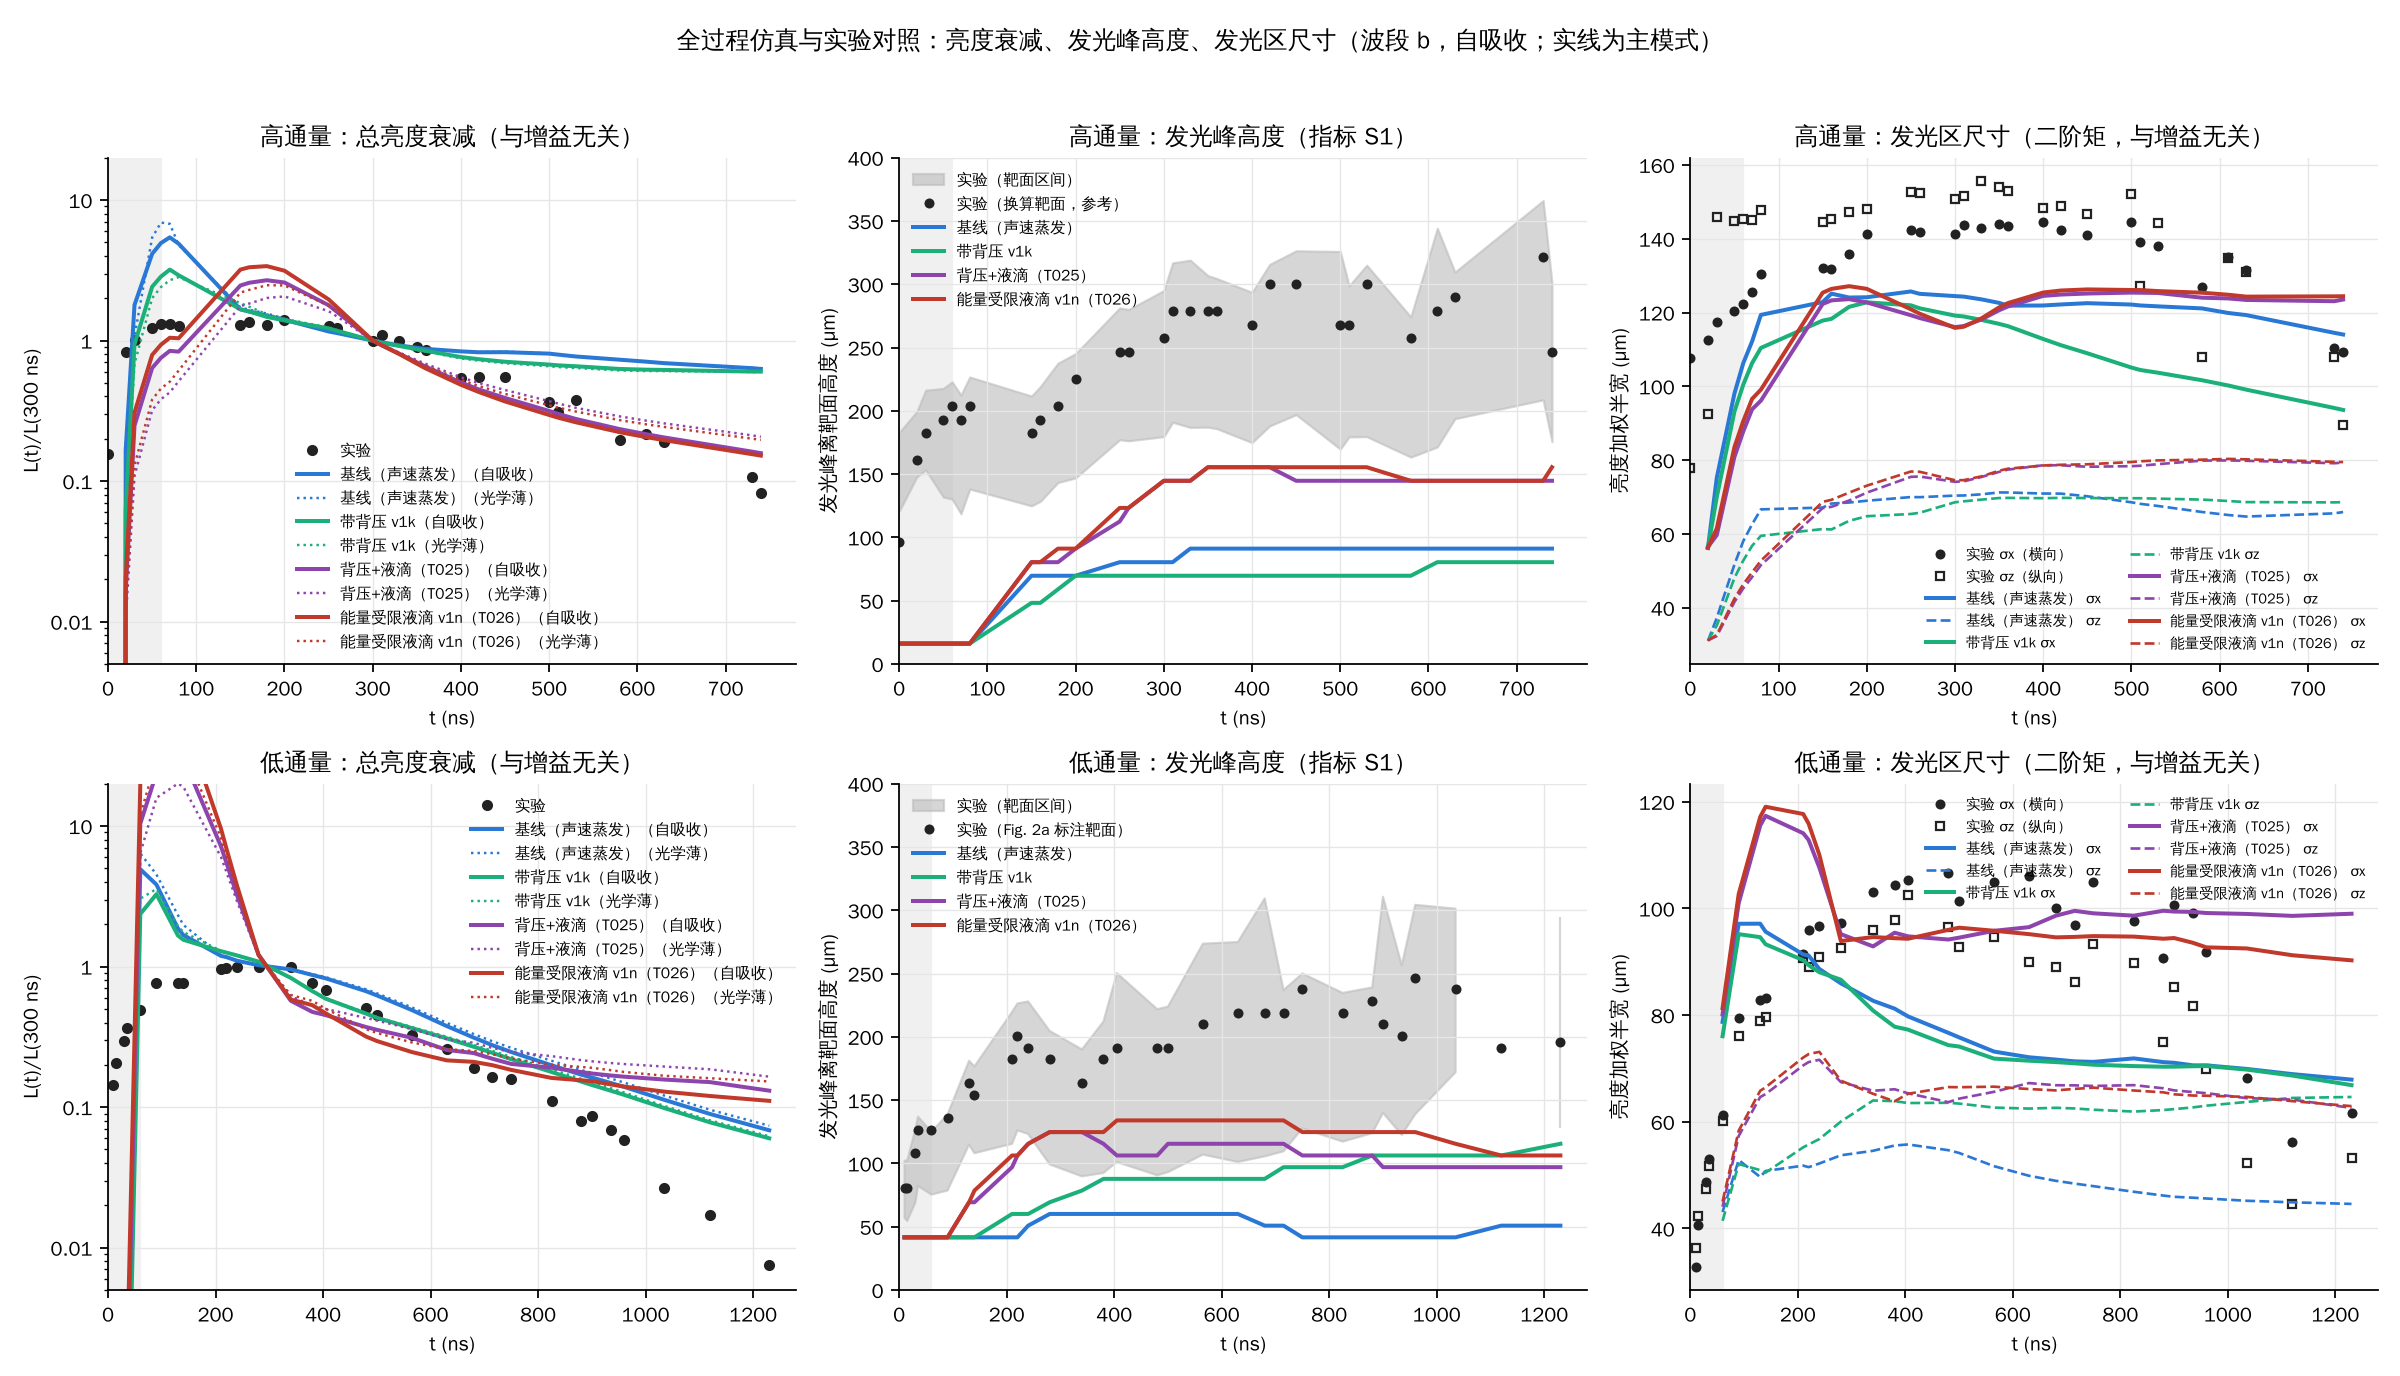
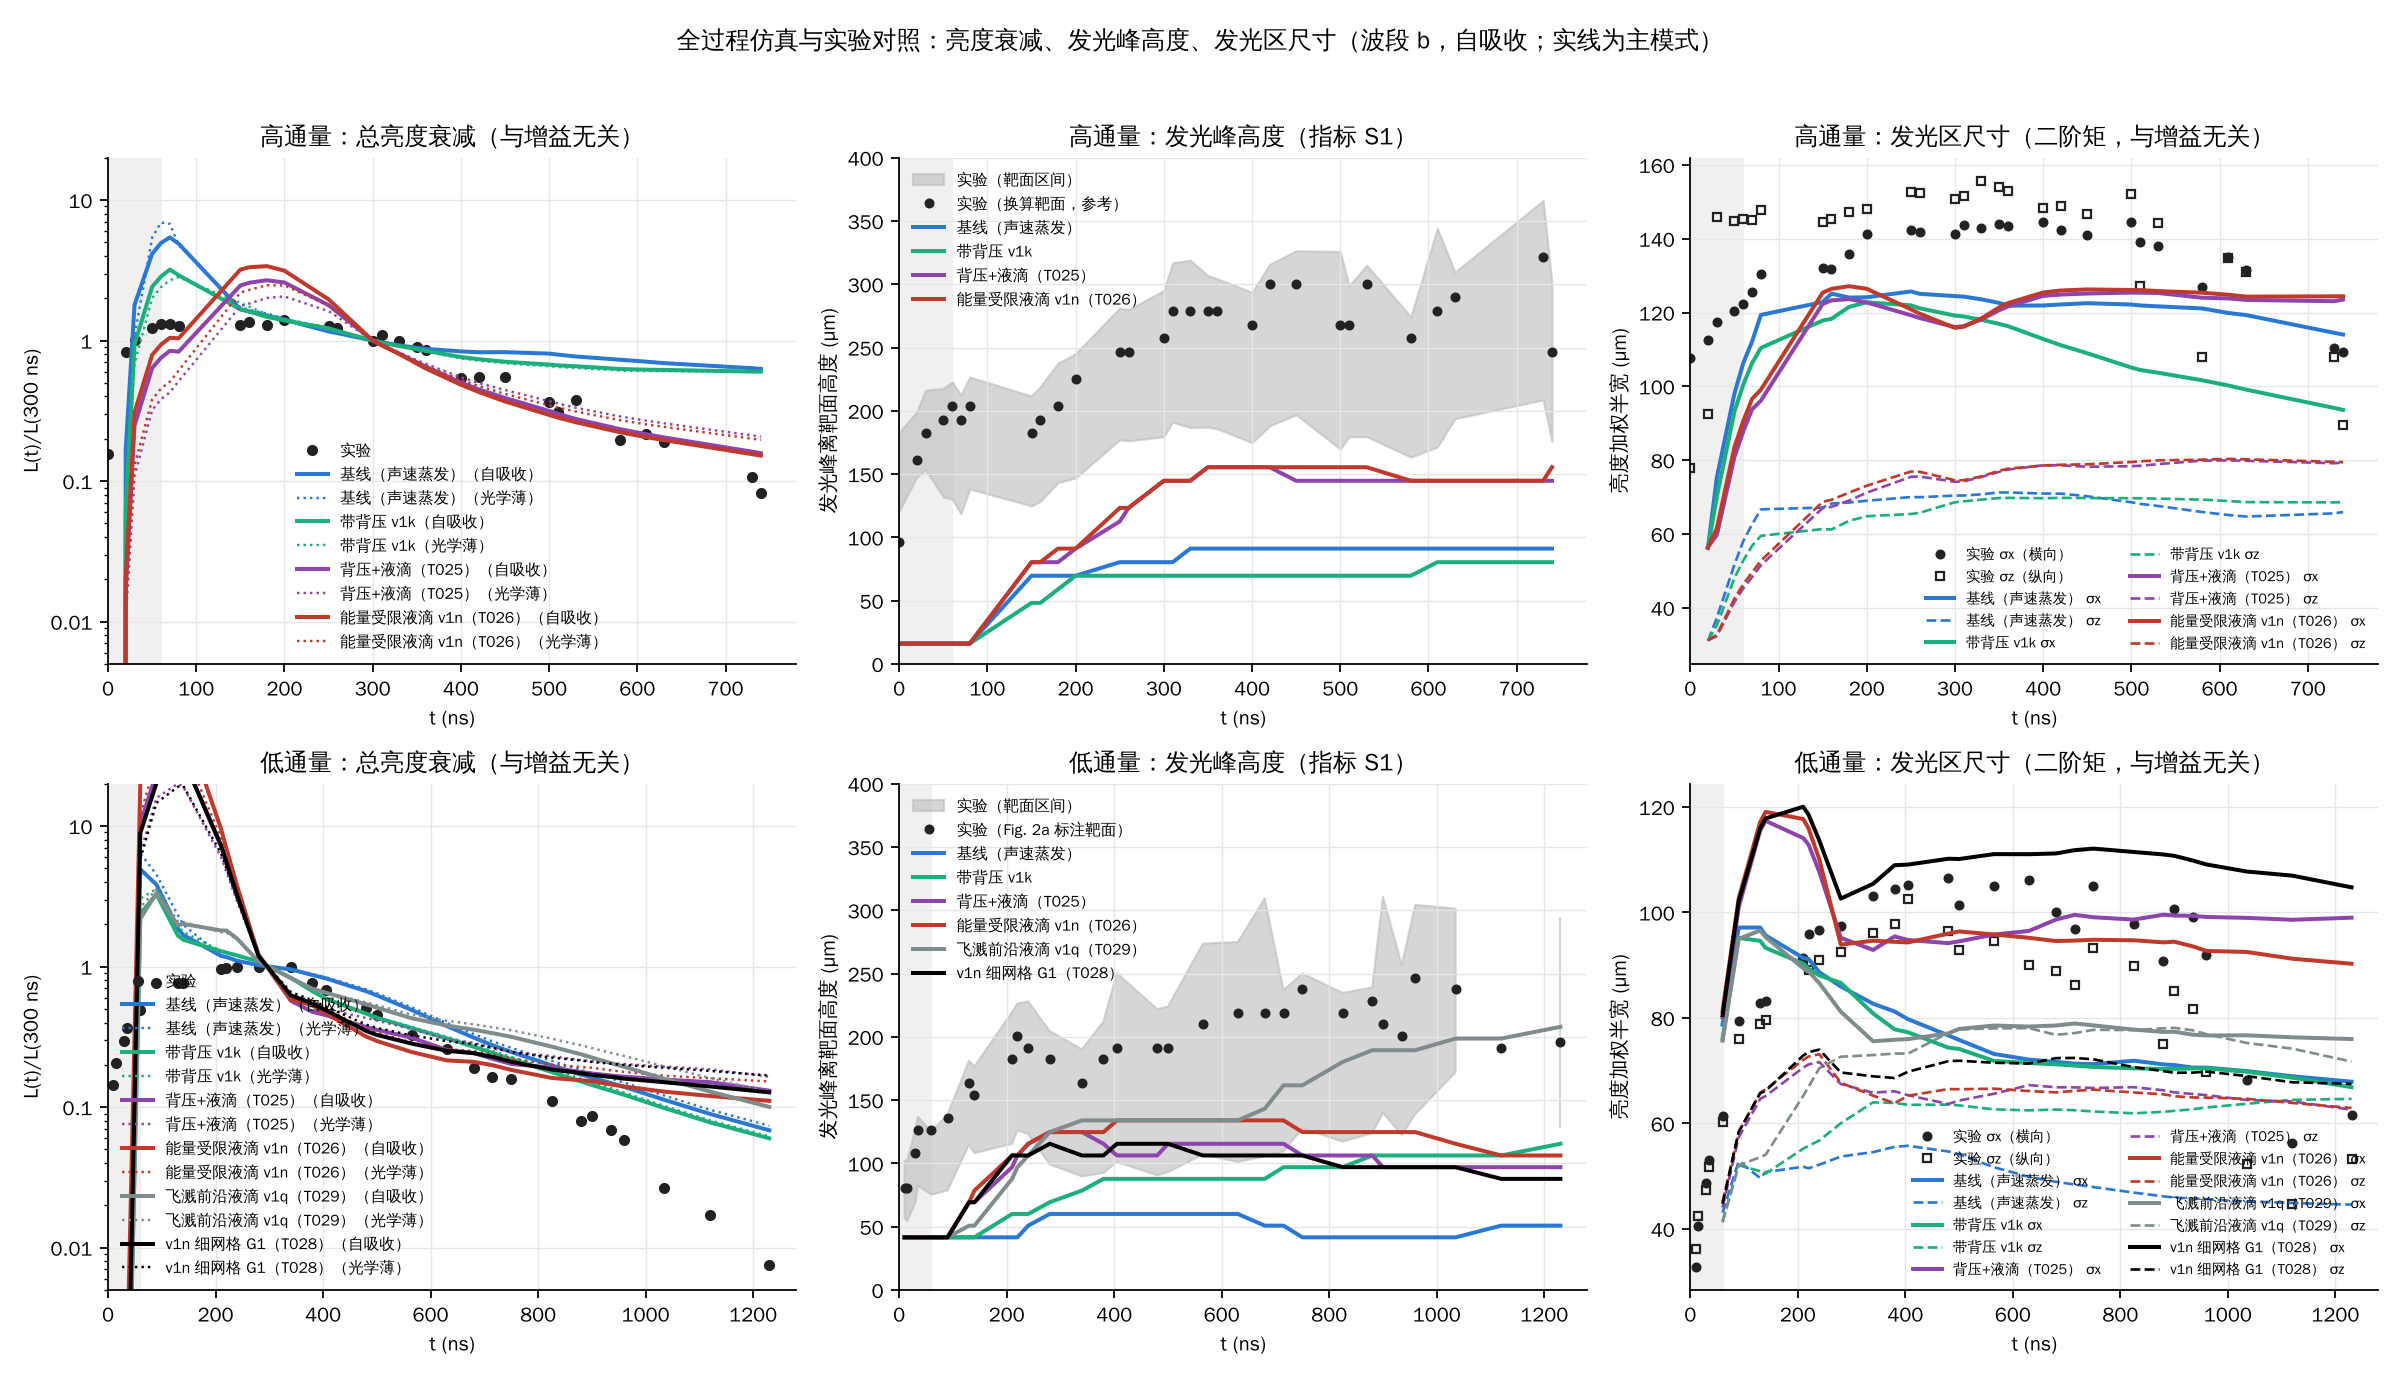
07:00 overnight summary: updated figures (T026 final, T029, T028 G1) and notes
Claude-Session: https://claude.ai/code/session_01FS7WDGPKzwdDyXZyPwrs24

diff --git a/results/figures/full_comparison_notes.md b/results/figures/full_comparison_notes.md
@@ -1,72 +1,83 @@
-# 全过程仿真与实验对照：要点（2026-11-24 21:30，北京时间）
+# 全过程仿真与实验对照：要点（2026-11-25 07:00 北京时间，夜间更新）
 
-图：`full_frames_high.png`、`full_frames_low.png`（逐帧）、`full_curves.png`（亮度衰减、发光峰高度、发光区尺寸）、`full_shock.png`（冲击波）。脚本：`scripts/plot_full_comparison.py`。
+图：`full_frames_high.png`、`full_frames_low.png`、`full_curves.png`、`full_shock.png`。
 
 **统一约定**
-- 波段 b、自吸收成像（光学薄为虚线/点线）、散焦 250 µm。
-- 各行在 300 ns 单独定增益，同一 0–255 色标。
-- 0–60 ns 不评判。
-- 每个模型都用该阶段预注册的报告成员，取已出的最新迭代，不按"像不像实验"挑选，也没有调任何参数。
-- 靶面：低通量用论文 Fig. 2a 作者标注的 Air/Copper 线；高通量是换算值，仅供参考。
+- 波段 b、自吸收、散焦 250 µm；各行在 300 ns 单独定增益，同一 0–255 色标；0–60 ns 不评判。
+- 每个模型用预注册的报告成员，取已出的最新一轮迭代，不按结果挑选，没有调参。
+- 靶面：低通量用作者在 Fig. 2a 标注的线；高通量为换算值，仅供参考。
+- 液滴成员：T021（时间均匀释放）已由能量自洽的 T026（v1n）取代。
 
 ## 数字汇总
 
-**高通量**（实验：L(500)/L(300) = 0.368，L(730)/L(300) = 0.107；300 ns 时 σz/σx = 151/141 µm，比值 1.07；冲击波 R(600 ns) ≈ 671 µm）
+### 高通量
 
-| 模型（迭代） | L500/L300 | L730/L300 | 发光峰高度中位数 / 达标帧 | σz / σx（比值） | R(600 ns) |
-|---|---|---|---|---|---|
-| 基线 T016e it2 | 0.81 | 0.64 | 91 µm / 0/20 | 70 / 124（0.57） | 649 |
-| 液滴上界 T021 it2 | **0.33** | **0.155** | **177 µm / 7/20** | 79 / 121（0.65） | 649 |
-| 背压 T023 it2 | 0.68 | 0.60 | 70 µm / 0/20 | 69 / 119（0.58） | 609 |
-| 背压+液滴 T025 it1 | **0.32** | **0.157** | 155 µm / 1/20 | 76 / 118（0.64） | 628 |
-| 能量受限液滴 T026 it0 | 0.57 | 0.32 | 123 µm / 0/20 | 71 / 128（0.55） | 691 |
+实验：L500/L300 = 0.37，L730/L300 = 0.107，σz/σx = 151/141 µm（比值 1.07）。
 
-**低通量**（实验：L(715)/L(300) = 0.163，L(1035)/L(300) = 0.027；300 ns 时 σz/σx = 94/99 µm，比值 0.94；冲击波 R(600 ns) ≈ 646 µm）
+| 模型（迭代） | L730/L300 | 发光峰高度中位数 / 达标帧 | σz/σx（300 ns） |
+|---|---|---|---|
+| 基线 T016e it2 | 0.64 | 91 µm / 0/20 | 70/124 |
+| 背压 v1k T023 it2 | 0.60 | 70 µm / 0/20 | 69/119 |
+| 背压+液滴 T025 it2 | 0.16 | — / 0/20 | — |
+| **能量受限液滴 v1n T026 it2** | **0.155** | 145 µm / 0/20 | 75/116（0.65） |
+| 飞溅前沿液滴 v1q T029 | 成像未到 | — | — |
 
-| 模型（迭代） | L715/L300 | L1035/L300 | 发光峰高度中位数 / 达标帧 | σz / σx（比值） | R(600 ns) |
-|---|---|---|---|---|---|
-| 基线 T016e it1 | 0.28 | 0.11 | 60 µm / 0/11 | 54 / 85（0.64） | — |
-| 液滴上界 T021 it1 | 0.25 | 0.19 | **116 µm / 8/11** | 65 / 92（0.71） | 491 |
-| 背压 T023 it1 | 0.24 | 0.10 | 88 µm / 0/11 | 61 / 85（0.72） | 506 |
-| 能量受限液滴 T026 it0 | **0.20** | 0.14 | **125 µm / 8/11** | 68 / 97（0.70） | 506 |
+### 低通量
 
-T025 低通量的成像还没推送。
+实验：L715/L300 = 0.163，L1035/L300 = 0.027，σz/σx = 94/99 µm（比值 0.94）。
+
+| 模型（迭代） | L715/L300 | L1035/L300 | 发光峰 中位 / 达标 | σz/σx（比值） |
+|---|---|---|---|---|
+| 基线 T016e it1 | 0.28 | 0.11 | 60 µm / 0/11 | 54/85（0.64） |
+| 背压 T023 it1 | 0.24 | 0.10 | 88 µm / 0/11 | 61/85（0.72） |
+| 背压+液滴 T025 it1 | 0.22 | 0.16 | 116 µm / 8/11 | 67/— |
+| **能量受限液滴 v1n T026 it1** | **0.20** | 0.13 | 125 µm / **8/11** | 67/94（0.71） |
+| 飞溅前沿液滴 v1q T029 it1 | 0.34 | 0.16 | 134 µm / **8/11** | 73/79（**0.92**） |
+| v1n 细网格 G1 T028 it0 | 0.23 | 0.15 | 106 µm / 7/11 | 69/104（0.67） |
+| 蒸气动量 v1p T027 it1（已关闭） | 0.72 | 0.46 | 42 µm / 0/11 | 0.70 |
 
 ## 三个目标的现状
 
 1. **亮度衰减**
-   - 高通量：液滴把 L(730)/L(300) 从 0.64 降到 0.155–0.157（T021、T025），与实验（0.107）相差在 2 倍以内，预注册判据 (b) 成立。500 ns 时已基本吻合（0.33 对 0.37）。
-   - 低通量：700 ns 时 T026 最接近实验（0.20 对 0.16）；但 1000 ns 以后所有模型都衰减太慢（0.10–0.19 对 0.027）。
-   - 背压本身对衰减无效：迭代收敛后 L730/L300 为 0.60。
+   - 高通量已基本解决：v1n 为 0.155，实验 0.107，相差在 2 倍以内，而且能量自洽。
+   - 低通量 700 ns 接近实验（0.20 对 0.16）。1 µs 之后仍偏慢（0.13 对 0.027）。诊断结果：晚期发光来自一团冷却很慢的约 5.5 kK 气团；不是测量口径问题（用同一 8 位处理流程核对过），也不是辐射处理方式的问题。
 
-2. **靶面距离（发光峰高度，指标 S1）**
-   - 液滴使发光核离开靶面：高通量中位数从 91 µm 升到 155–177 µm，低通量从 60 µm 升到 116–125 µm。
-   - 低通量 8/11 帧达标，过 70% 门槛；高通量最多 7/20，未过。
-   - 背压不抬升发光核，两种通量都是 0 帧达标。
+2. **靶面距离（发光峰高度）**
+   - 低通量已解决：v1n 和 v1q 都是 8/11 帧达标，超过 70% 的门槛。
+   - 高通量的发光峰升到 145–177 µm，但仍低于实验下限（178 µm），达标帧为 0–7/20。
 
 3. **形貌**
-   - 横向尺寸 σx 基本对上：高通量 118–128 对 141 µm，低通量 85–97 对 99 µm。
-   - 纵向尺寸 σz 所有模型都只有实验的一半左右：高通量 69–79 对 151 µm，低通量 54–68 对 94 µm。
-   - 实验发光区接近圆形（σz/σx ≈ 1），模型偏扁（0.55–0.72）。
-   - 这是目前最大的剩余差距。单靠散焦模糊解释不了，因为模糊会同时放大 σx。
+   - v1q（液滴在实测飞溅前沿蒸发）让低通量纵横比达到 0.92（实验 0.94），这是第一次对上。代价是衰减变慢、横向变窄：前沿处只能蒸发一小部分液滴。
+   - v1n（液滴在整个铜核心蒸发）则是衰减和横向宽度对上，羽流偏扁。
+   - 这两种情形分别是液滴蒸发位置的两个极端，真实情况应在两者之间。
 
-4. **冲击波**
-   - 高通量 200 ns 以后各模型在 −9% 到 +3% 之内。
-   - 低通量模型偏慢（约 −22%）。
-   - 0–100 ns 所有模型都偏晚约 20 ns。
+4. **网格收敛（低通量）**
+   - 细网格 G1 和 G0 的关键指标相差 10–15%，判读结论不变。
+   - 高通量的 G1 计算仍在跑。
 
-## 预注册判读汇总
+## 夜间预注册判读
 
-| 编号 | 模型 | 结论 |
-|---|---|---|
-| T021 | 液滴上界 v1j | (a)(b)(c) 全部成立：核心比能 44→4.5 MJ/kg，300 ns 发光加权温度 25→8.7 kK，冲击波不变。在上下界之间是充分机制。 |
-| T023 | 背压 v1k | 近壁堆积降约 10 倍，但近壁吸收层仍在（G1 细网格确认已收敛）；发光峰抬升（b）不成立。 |
-| T024 | 双温击穿 v1m | 只提前起燃 1.5 ns，35 ns 后与 v1k 一致；判定无效，已停算。 |
-| T025 | 背压 + 液滴 | (a) 衰减成立，(d) 冲击波成立；S1 和 σz 未改善。 |
-| T026 | 能量受限液滴 v1n | (a) 液滴窗口能量残差 1.1–1.7 µJ → 0.002 µJ，成立；低通量 700 ns 衰减和 S1 为目前最好。高通量 it0 衰减 0.32，需看 it1/it2：it0 的源未屏蔽，背压也曾出现迭代间很大的差别。 |
+- **v1n（T026）**
+  - (a) 液滴窗口内的能量残差从 1.1–1.7 µJ 降到 0.002 µJ，成立。
+  - (c) 高通量衰减保持在 2 倍以内，成立。
+  - 已定为当前报告用的模型。
+- **v1p 蒸气出口动量（T027）**
+  - (a) 数值修复增多，不成立。
+  - (b) 纵横比只变了 +1.5% 到 +3.8%，低于 5% 的门槛，不成立。
+  - 低通量结果明显变差（发光峰被拉回靶面，衰减为 0.72）。已关闭。
+- **v1q 实测飞溅前沿（T029，低通量）**
+  - (b) 纵横比 +29%，变化显著，方向朝实验。
+  - (c) 衰减变差。
+  - 高通量的成像还没出。
 
-## 下一步（用户已选定第 1 项）
+## 需要你决定的事项
 
-- **T027 蒸气出口动量 v1p**：Knight 出口动量 ṁu_v，无新参数；对照组是 T026。读法：σz/σx 变化小于 5% 即判定不是缺失机制。
-- **备选**：液滴运动学（论文实测 344 m/s，作独立输入）；辐射输运。都会先预注册。
-- **仍待推送**：T026 高通量 it1/it2、T025 低通量的成像。
+1. **液滴空间分布。** v1n 和 v1q 是两个极端，各对上一部分。真实情况可能是"液滴从前沿到靶面沿途都在蒸发"。若采用这一折中，空间分布需要有物理依据（例如按液滴的飞行时间与蒸发时间来决定），否则就成了调参。是否做这一项？
+2. **低通量晚期衰减。** 候选有两个：铜–空气界面不稳定引起的混合（需要湍流模型或三维计算，代价大）；铜蒸气凝结成纳米颗粒（与论文主题相关）。做哪一项？还是作为模型局限写进报告？
+3. **辐射输运**（激光吸收前沿沿光束向上推进）。它是早期冲击波偏晚约 20 ns 的候选解释，在高通量下可能也是发光峰抬升的机制。是否做？
+
+## 白天会自动继续的
+
+- T029 高通量各轮迭代的成像与判读。
+- T028 高通量细网格（约 340 ns，速度较慢）。
+- T023 G1。
